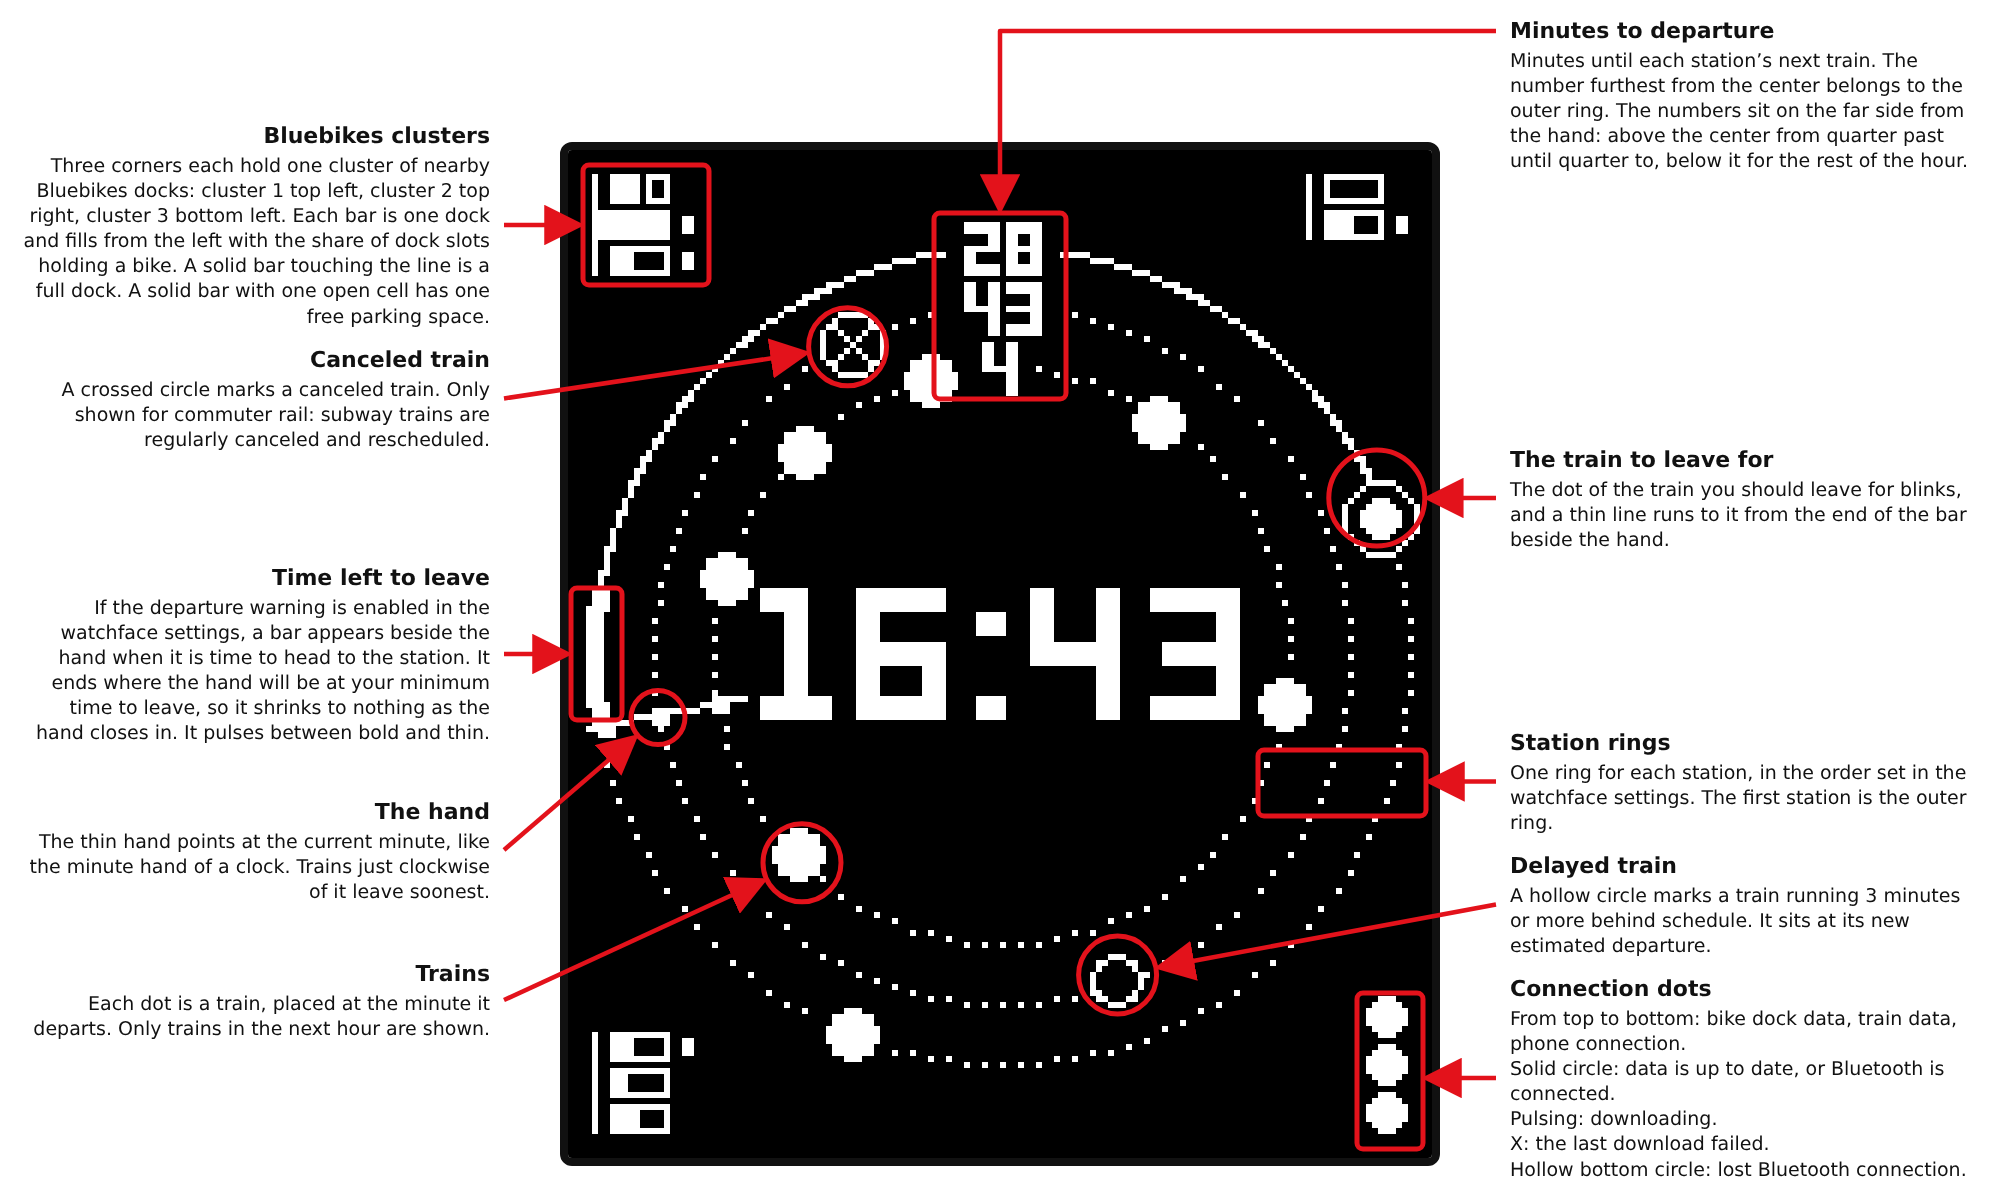
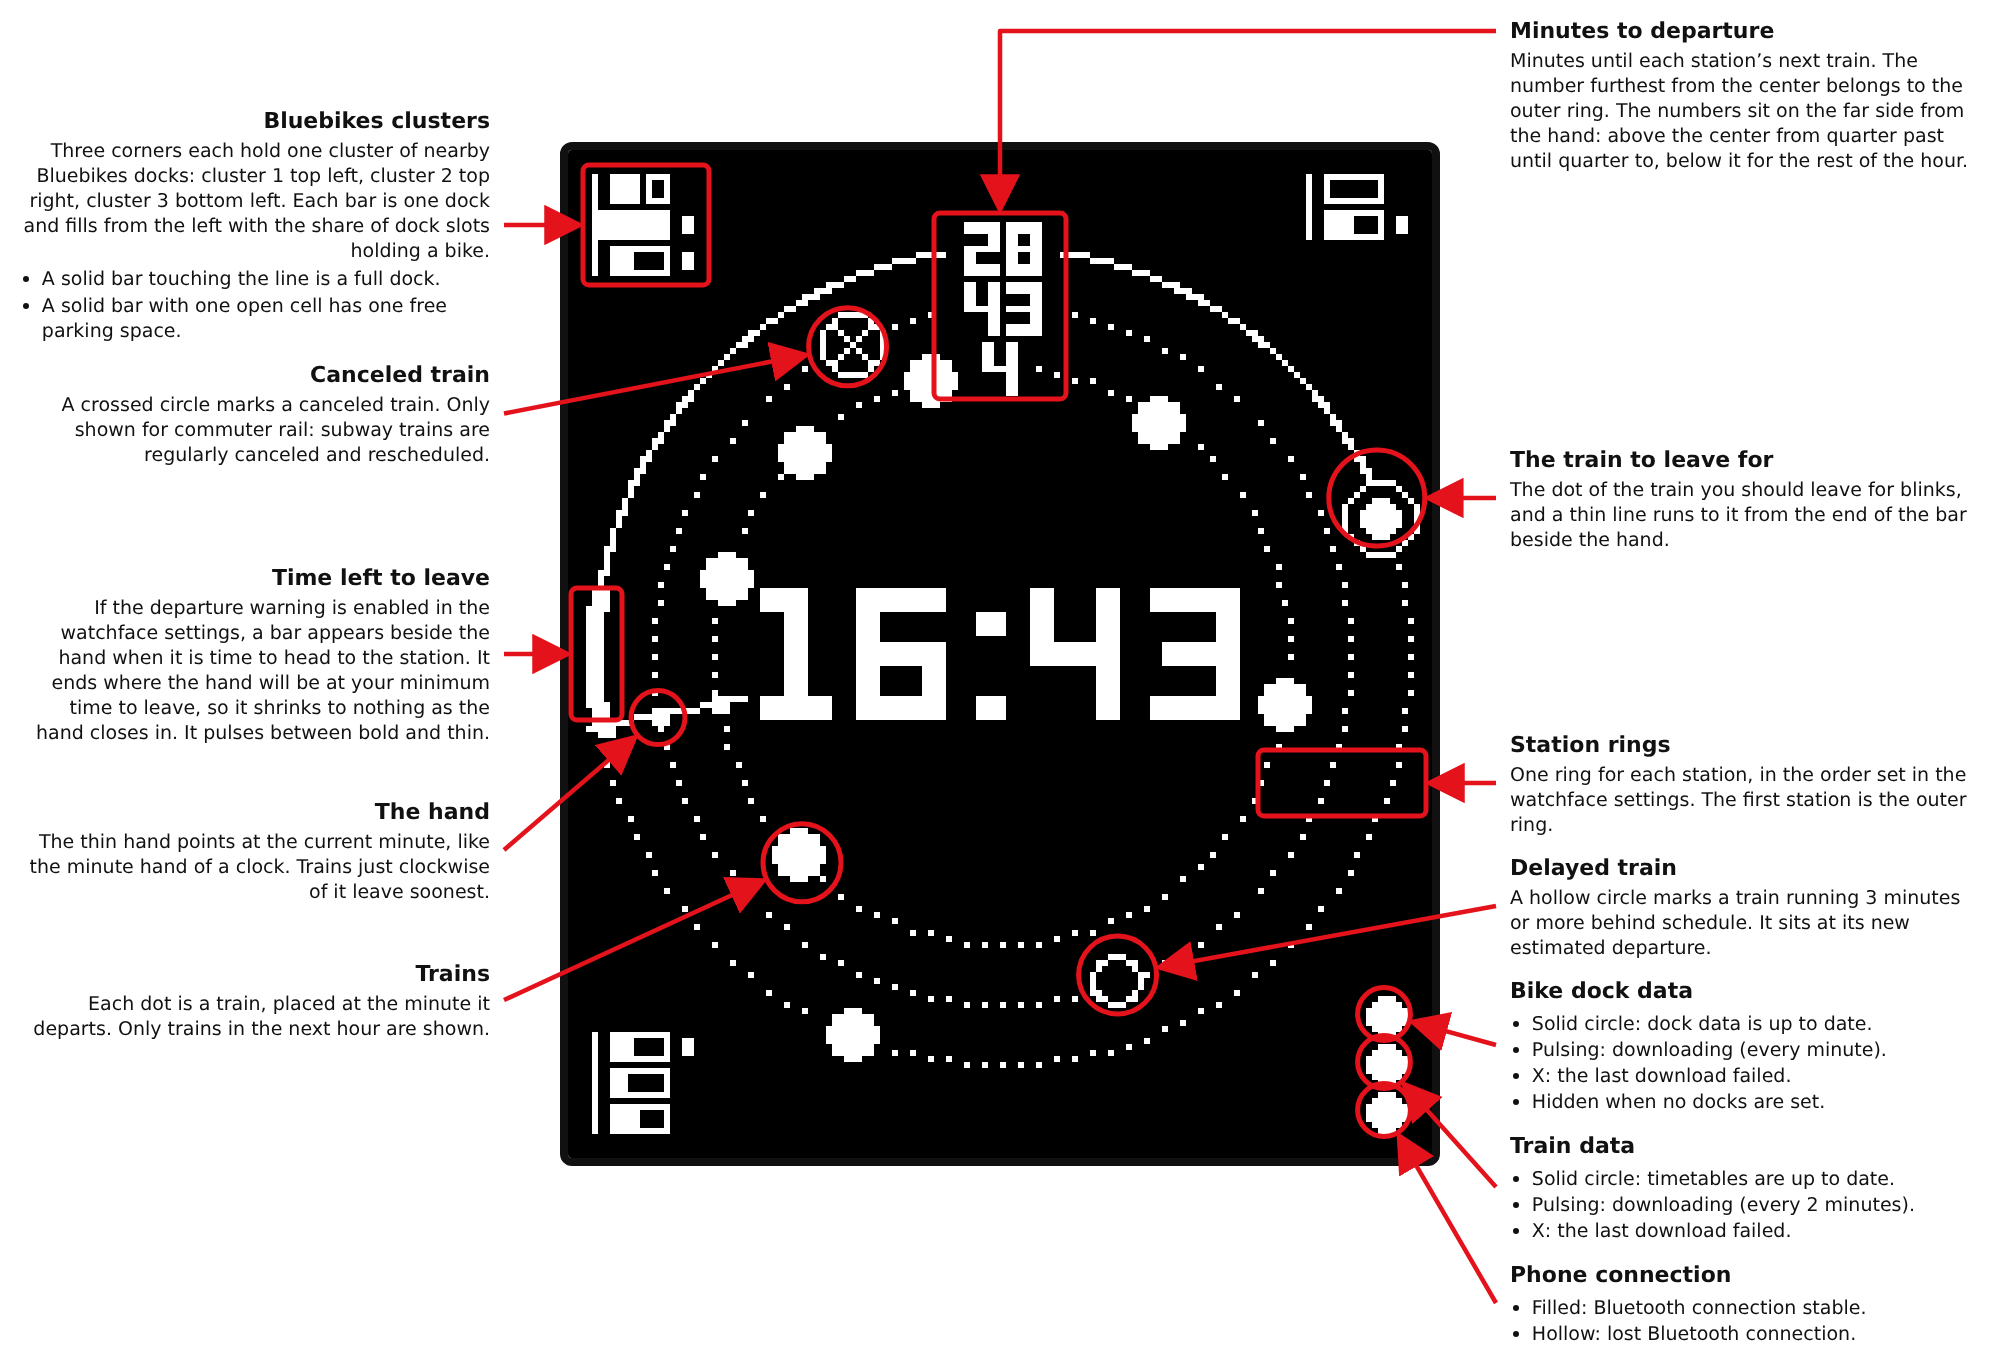
Guides: a callout per connection dot, bulleted lists, and a narrow numbered version for phones
Claude-Session: https://claude.ai/code/session_018kUttcRWv8pxFU9anVHVt8

Changed region(s): [[0.0, 0.0, 0.992, 0.9883], [0.465, 0.7721, 0.496, 0.803]]

diff --git a/docs/watch-guide.html b/docs/watch-guide.html
@@ -1,18 +1,26 @@
 <!doctype html><meta charset="utf-8">
-<!-- Source for the annotated guides. Open with #line (the default), #board
-     or #dial and render #c with a headless browser at 2000px wide:
+<!-- Source for the annotated guides. The hash picks the guide: #line (the
+     default), #board or #dial. Render #c with a headless browser.
        #line  -> watch-guide.png   (screen: watch-screen.png)
        #board -> guide-board.png   (screen: screen-guide-board.png)
        #dial  -> guide-dial.png    (screen: screen-guide-dial.png)
+     Add -l or -r for the narrow layout's two halves, e.g. #board-l ->
+     guide-board-mobile-1.png and #board-r -> guide-board-mobile-2.png.
      Each screen is a 144x168 capture of the watch showing demo data. -->
 <style>
 body{margin:0;background:#fff;font-family:"DejaVu Sans","Liberation Sans",sans-serif;color:#111}
 #c{position:relative;width:2000px;background:#fff}
 #w{position:absolute;image-rendering:pixelated;border:8px solid #111;border-radius:12px;margin:-8px}
 svg{position:absolute;left:0;top:0}
-.t{position:absolute;width:470px;font-size:19px;line-height:1.32}
+.t{position:absolute;font-size:19px;line-height:1.32}
 .t b{display:block;font-size:22px;margin-bottom:3px}
-.l{left:20px;text-align:right}.r{left:1510px}
+.t ul{display:inline-block;margin:2px 0 0;padding-left:1.15em;text-align:left}
+.t li{margin:1px 0}
+.l{text-align:right}
+.m .e{display:flex;gap:16px;margin:0 0 22px;font-size:25px;line-height:1.34}
+.m .e b{display:block;font-size:28px;margin-bottom:2px}
+.m .n{flex:none;width:38px;height:38px;border-radius:50%;background:#e3121b;color:#fff;font-weight:bold;font-size:23px;line-height:38px;text-align:center;margin-top:1px}
+.m ul{margin:2px 0 0;padding-left:1.15em}.m li{margin:2px 0}
 </style>
 <div id="c"><img id="w" src="watch-screen.png"><svg id="s" width="2000"></svg></div>
 <script>
@@ -21,36 +29,42 @@ function px(x){return X0+x*K} function py(y){return Y0+y*K}
 // Targets are in watch pixels: box [x1,y1,x2,y2] or circ [cx,cy,r].
 // top: the arrow runs across the top margin and drops onto the target.
 // at: [x,y] watch pixel the arrow should end at instead of the nearest edge.
+// Lines of a body that start with "- " are drawn as a bulleted list.
+var BIKE_DATA='- Solid circle: dock data is up to date.<br>- Pulsing: downloading (every minute).<br>- X: the last download failed.<br>- Hidden when no docks are set.';
+var TRAIN_DATA='- Solid circle: timetables are up to date.<br>- Pulsing: downloading (every 2 minutes).<br>- X: the last download failed.';
+var PHONE='- Filled: Bluetooth connection stable.<br>- Hollow: lost Bluetooth connection.';
 var GUIDES={
 line:{img:'watch-screen.png',y0:224,items:[
  {side:'l',top:1,title:'Bluebikes docks',body:'Each circle is a pie chart for one Bluebikes dock, chosen in the watchface settings. The solid slice is the share of dock slots holding a bike. Orbiting dots are available e-bikes, one dot each.',box:[26.5,-1.5,78,11]},
- {side:'l',title:'Bike dock nearly full',body:'A hollow square means almost full: one free parking space.<br>A solid square means completely full: no free parking space.',box:[1,-1.5,25.5,11],ty:259},
+ {side:'l',title:'Bike dock nearly full',body:'- A hollow square means almost full: one free parking space.<br>- A solid square means completely full: no free parking space.',box:[1,-1.5,25.5,11],ty:259},
  {side:'l',title:'Train timetable header',body:'Station &gt; direction. The line, station and direction are configured in the watchface settings. This example shows commuter rail rows, which display departure times as HH:MM. The watch here is set to a 24-hour clock (military time).',box:[1,45.5,106,58.5]},
  {side:'l',title:'Blinking departure warning',body:'If enabled in the watchface settings, a train time blinks when it is time to head to the station. The blink starts slow at your maximum time to leave, speeds up until your minimum time to leave, then stops.',box:[0.5,60.5,47.5,85.5]},
  {side:'l',title:'Service alert',body:'An “!” means an alert is posted for this line. If alerts are enabled for the row, the alert text scrolls across the header every minute.',circ:[4,92.5,5.5]},
  {side:'l',title:'Canceled train',body:'An X marks a canceled train. Only shown for commuter rail: subway trains are regularly canceled and rescheduled.',box:[0.5,101.5,48,126]},
  {side:'l',title:'Subway timetables',body:'Subway trains depart frequently, so they are shown as minutes to departure.',box:[11.5,145,35,164.5]},
- {side:'r',top:1,title:'Bike dock data',body:'Solid circle: dock data is up to date.<br>Pulsing: downloading (every minute).<br>X: the last download failed.<br>Hidden when no docks are set.',circ:[115.5,6,5]},
- {side:'r',top:2,title:'Train data',body:'Solid circle: timetables are up to date.<br>Pulsing: downloading (every 2 minutes).<br>X: the last download failed.',circ:[126.5,6,5]},
- {side:'r',title:'Phone connection',body:'Filled: Bluetooth connection stable.<br>Hollow: lost Bluetooth connection.',circ:[137.5,6,5],ty:360},
+ {side:'r',top:1,title:'Bike dock data',body:BIKE_DATA,circ:[115.5,6,5]},
+ {side:'r',top:2,title:'Train data',body:TRAIN_DATA,circ:[126.5,6,5]},
+ {side:'r',title:'Phone connection',body:PHONE,circ:[137.5,6,5],ty:360},
  {side:'r',title:'Departure countdown',body:'Minutes until the next train departs.',box:[117,45.5,143,58.5]},
  {side:'r',title:'Delayed trains',body:'If a train is marked delayed (3 minutes or more behind schedule), the background is hatched. The time shown is the new estimated departure.',box:[96.5,60.5,143.5,85.5]},
  {side:'r',title:'End of service',body:'Shows when no more trains are scheduled for the rest of the service day. The MBTA’s service day runs until about 3 am.',box:[52,104,143.5,123]},
- {side:'r',title:'Subway destination letter',body:'Shown where a line splits.<br>Red Line southbound: A = Ashmont, B = Braintree.<br>Green Line: B = Boston College, C = Cleveland Circle, D = Riverside, E = Heath Street.<br>Other lines have no letter.',circ:[131,155.5,6.5]}
+ {side:'r',title:'Subway destination letter',body:'Shown where a line splits.<br>- Red Line southbound: A = Ashmont, B = Braintree.<br>- Green Line: B = Boston College, C = Cleveland Circle, D = Riverside, E = Heath Street.<br>- Other lines have no letter.',circ:[131,155.5,6.5]}
 ]},
 board:{img:'screen-guide-board.png',y0:250,items:[
  {side:'l',top:1,title:'Bluebikes clusters',body:'Each stack is a cluster of nearby Bluebikes docks, chosen in the watchface settings, and each bar is one dock. A bar fills from the left with the share of dock slots holding a bike. A dot to the right of a bar means e-bikes are available.',box:[94.5,1,133.5,22]},
- {side:'l',top:2,title:'Bike dock nearly full',body:'A solid bar with one open cell at its end means almost full: one free parking space.<br>A solid bar that touches the cluster’s line means completely full: no free parking space.',box:[73.5,1,93.5,22]},
+ {side:'l',top:2,title:'Bike dock nearly full',body:'- A solid bar with one open cell at its end means almost full: one free parking space.<br>- A solid bar that touches the cluster’s line means completely full: no free parking space.',box:[73.5,1,93.5,22]},
  {side:'l',title:'Departure time',body:'Every train from your three stations is in one list, soonest first, up to six trains. This is when each one leaves. The watch here is set to a 24-hour clock (military time).',box:[0.5,37,38,56.5],ty:520},
  {side:'l',title:'Canceled train',body:'A line through the train, and CANC in place of the minutes. Only shown for commuter rail: subway trains are regularly canceled and rescheduled.',box:[0.5,58.5,143.5,79.5]},
  {side:'l',title:'Blinking departure warning',body:'If enabled in the watchface settings, a train’s whole line blinks when it is time to head to the station. The blink starts slow at your maximum time to leave, speeds up until your minimum time to leave, then stops.',box:[0.5,146.5,143.5,167.5]},
- {side:'r',title:'Connection dots',body:'From top to bottom: bike dock data, train data, phone connection.<br>Solid circle: data is up to date, or Bluetooth is connected.<br>Pulsing: downloading.<br>X: the last download failed.<br>Hollow bottom circle: lost Bluetooth connection.',box:[134.5,-0.5,143.8,24.5],ty:300},
- {side:'r',title:'Minutes to departure',body:'Minutes until the train departs.',box:[122,37,143.5,56.5],ty:520},
+ {side:'r',title:'Bike dock data',body:BIKE_DATA,circ:[139,4,4.4],ty:150},
+ {side:'r',title:'Train data',body:TRAIN_DATA,circ:[139,12,4.4],ty:305},
+ {side:'r',title:'Phone connection',body:PHONE,circ:[139,20,4.4],ty:440},
+ {side:'r',title:'Minutes to departure',body:'Minutes until the train departs.',box:[122,37,143.5,56.5],ty:545},
  {side:'r',title:'Destination',body:'Where the train is going. Long names are shortened to fit: S Station is South Station.<br>An “!” before the destination means an alert is posted for that train’s line, if alerts are enabled for its station. Alert text does not scroll in this layout.',box:[44.5,81,119,100.5]},
  {side:'r',title:'Delayed train',body:'If a train is marked delayed (3 minutes or more behind schedule), its line is hatched. The time shown is the new estimated departure.',box:[0.5,102.5,143.5,123.5],ty:940}
 ]},
 dial:{img:'screen-guide-dial.png',y0:150,items:[
- {side:'l',title:'Bluebikes clusters',body:'Three corners each hold one cluster of nearby Bluebikes docks: cluster 1 top left, cluster 2 top right, cluster 3 bottom left. Each bar is one dock and fills from the left with the share of dock slots holding a bike. A solid bar touching the line is a full dock. A solid bar with one open cell has one free parking space.',box:[2.5,2.5,23.5,22.5]},
+ {side:'l',title:'Bluebikes clusters',body:'Three corners each hold one cluster of nearby Bluebikes docks: cluster 1 top left, cluster 2 top right, cluster 3 bottom left. Each bar is one dock and fills from the left with the share of dock slots holding a bike.<br>- A solid bar touching the line is a full dock.<br>- A solid bar with one open cell has one free parking space.',box:[2.5,2.5,23.5,22.5]},
  {side:'l',title:'Canceled train',body:'A crossed circle marks a canceled train. Only shown for commuter rail: subway trains are regularly canceled and rescheduled.',circ:[46.6,32.8,6.5]},
  {side:'l',title:'Time left to leave',body:'If the departure warning is enabled in the watchface settings, a bar appears beside the hand when it is time to head to the station. It ends where the hand will be at your minimum time to leave, so it shrinks to nothing as the hand closes in. It pulses between bold and thin.',box:[0.5,73,9,95]},
  {side:'l',title:'The hand',body:'The thin hand points at the current minute, like the minute hand of a clock. Trains just clockwise of it leave soonest.',circ:[15,94.6,4.5],ty:850},
@@ -58,20 +72,45 @@ dial:{img:'screen-guide-dial.png',y0:150,items:[
  {side:'r',top:1,title:'Minutes to departure',body:'Minutes until each station’s next train. The number furthest from the center belongs to the outer ring. The numbers sit on the far side from the hand: above the center from quarter past until quarter to, below it for the rest of the hour.',box:[61,10.5,83,41.5]},
  {side:'r',title:'The train to leave for',body:'The dot of the train you should leave for blinks, and a thin line runs to it from the end of the bar beside the hand.',circ:[134.8,58,8]},
  {side:'r',title:'Station rings',body:'One ring for each station, in the order set in the watchface settings. The first station is the outer ring.',box:[115,100,143,111]},
- {side:'r',title:'Delayed train',body:'A hollow circle marks a train running 3 minutes or more behind schedule. It sits at its new estimated departure.',circ:[91.6,137.5,6.5],ty:960},
- {side:'r',title:'Connection dots',body:'From top to bottom: bike dock data, train data, phone connection.<br>Solid circle: data is up to date, or Bluetooth is connected.<br>Pulsing: downloading.<br>X: the last download failed.<br>Hollow bottom circle: lost Bluetooth connection.',box:[131.5,140.5,142.5,166.5],ty:1130}
+ {side:'r',title:'Delayed train',body:'A hollow circle marks a train running 3 minutes or more behind schedule. It sits at its new estimated departure.',circ:[91.6,137.5,6.5],ty:790},
+ {side:'r',title:'Bike dock data',body:BIKE_DATA,circ:[136,144,4.4],ty:925},
+ {side:'r',title:'Train data',body:TRAIN_DATA,circ:[136,152,4.4],ty:1062},
+ {side:'r',title:'Phone connection',body:PHONE,circ:[136,160,4.4],ty:1165}
 ]}
 };
-var guide=GUIDES[location.hash.slice(1)]||GUIDES.line,items=guide.items;
-Y0=guide.y0;document.getElementById('w').src=guide.img;
-var R='#e3121b',c=document.getElementById('c'),w=document.getElementById('w');
+// The hash picks the guide and the layout: "board" is the full guide with
+// callouts on both sides. "board-l" and "board-r" are the two halves of the
+// narrow layout for small screens: the watch with numbered markers for one
+// side's callouts, and the callouts as a numbered list underneath.
+var parts=location.hash.slice(1).split('-'),guide=GUIDES[parts[0]]||GUIDES.line,half=parts[1]||'';
+var items=guide.items.filter(function(i){return !half||i.side===half});
+var c=document.getElementById('c'),w=document.getElementById('w'),R='#e3121b';
+var W=2000,TW=470,TL=20,TR=1510;
+c.style.width=W+'px';w.src=guide.img;
+if(half){narrow();}else{wide();}
+
+function bodyHtml(text){
+  var out='',open=false;
+  text.split('<br>').forEach(function(line,i){
+    var li=line.indexOf('- ')===0;
+    if(li&&!open){out+='<ul>';open=true;}
+    if(!li&&open){out+='</ul>';open=false;}
+    out+=li?'<li>'+line.slice(2)+'</li>':(i&&!out.match(/<\/ul>$/)?'<br>':'')+line;
+  });
+  return out+(open?'</ul>':'');
+}
+function wide(){
+items.forEach(function(it){
+  it.el=document.createElement('div');it.el.className='t '+it.side;
+  it.el.style.width=TW+'px';it.el.style.left=(it.side==='l'?TL:TR)+'px';
+  it.el.innerHTML='<b>'+it.title+'</b>'+bodyHtml(it.body);c.appendChild(it.el);
+  it.h=it.el.offsetHeight;
+});
+Y0=guide.y0;
 w.style.left=X0+'px';w.style.top=Y0+'px';w.style.width=144*K+'px';w.style.height=168*K+'px';
 items.forEach(function(it){
   if(it.box) it.b={x1:px(it.box[0]),y1:py(it.box[1]),x2:px(it.box[2]),y2:py(it.box[3])};
   else{var r=it.circ[2]*K;it.b={x1:px(it.circ[0])-r,y1:py(it.circ[1])-r,x2:px(it.circ[0])+r,y2:py(it.circ[1])+r,c:1};}
-  it.el=document.createElement('div');it.el.className='t '+it.side;
-  it.el.innerHTML='<b>'+it.title+'</b>'+it.body;c.appendChild(it.el);
-  it.h=it.el.offsetHeight;
   it.want=it.top?it.top:(it.ty||(it.b.y1+it.b.y2)/2);
 });
 var H=Y0+168*K+40;
@@ -81,6 +120,8 @@ var H=Y0+168*K+40;
     it.y=Math.max(it.want,it.h/2+16);
     if(i>0){var p=col[i-1],min=p.y+p.h/2+GAP+it.h/2;if(it.y<min)it.y=min;}
   });
+  // A column taller than the watch makes the picture taller instead of overlapping.
+  if(col.length){var last=col[col.length-1];H=Math.max(H,last.y+last.h/2+16);}
   for(var i=col.length-1;i>=0;i--){
     var max=i===col.length-1?H-16-col[i].h/2:col[i+1].y-col[i+1].h/2-GAP-col[i].h/2;
     if(col[i].y>max)col[i].y=max;
@@ -102,5 +143,36 @@ items.forEach(function(it){
   }
   svg+='<path d="'+d+'" fill="none" stroke="'+R+'" stroke-width="4.5" stroke-linejoin="round" marker-end="url(#a)"/>';
 });
-c.style.height=H+'px';var s=document.getElementById('s');s.setAttribute('height',H);s.innerHTML=svg;
+c.style.height=H+'px';var sv=document.getElementById('s');sv.setAttribute('width',W);sv.setAttribute('height',H);sv.innerHTML=svg;
+}
+
+function narrow(){
+  K=5;X0=40;Y0=34;W=144*K+2*X0;
+  c.className='m';c.style.width=W+'px';
+  w.style.left=X0+'px';w.style.top=Y0+'px';w.style.width=144*K+'px';w.style.height=168*K+'px';
+  items.forEach(function(it){
+    if(it.box) it.b={x1:px(it.box[0]),y1:py(it.box[1]),x2:px(it.box[2]),y2:py(it.box[3])};
+    else{var r=it.circ[2]*K;it.b={x1:px(it.circ[0])-r,y1:py(it.circ[1])-r,x2:px(it.circ[0])+r,y2:py(it.circ[1])+r,c:1};}
+  });
+  // Numbered down the watch, top to bottom.
+  items.sort(function(a,b){return (a.b.y1+a.b.y2)-(b.b.y1+b.b.y2)||a.b.x1-b.b.x1});
+  var BR=17,svg='',list='<div class="list" style="padding:'+(Y0+168*K+38)+'px '+X0+'px 12px">';
+  items.forEach(function(it,i){
+    var b=it.b,cx=(b.x1+b.x2)/2,cy=(b.y1+b.y2)/2,r=(b.x2-b.x1)/2,bx,by;
+    if(b.c) svg+='<circle cx="'+cx+'" cy="'+cy+'" r="'+r+'" fill="none" stroke="'+R+'" stroke-width="5"/>';
+    else svg+='<rect x="'+b.x1+'" y="'+b.y1+'" width="'+(b.x2-b.x1)+'" height="'+(b.y2-b.y1)+'" rx="6" fill="none" stroke="'+R+'" stroke-width="5"/>';
+    // The marker sits on the shape's top left corner, or beside a small circle.
+    if(it.badge){bx=px(it.badge[0]);by=py(it.badge[1]);}
+    else if(b.c&&r<30){bx=cx-r-BR-2;by=cy;}
+    else if(b.c){bx=cx-r*0.72;by=cy-r*0.72;}
+    else{bx=b.x1;by=b.y1;}
+    bx=Math.max(BR+2,Math.min(W-BR-2,bx));by=Math.max(BR+2,by);
+    svg+='<circle cx="'+bx+'" cy="'+by+'" r="'+BR+'" fill="'+R+'" stroke="#fff" stroke-width="2.5"/>'+
+         '<text x="'+bx+'" y="'+(by+7.5)+'" text-anchor="middle" font-size="22" font-weight="bold" fill="#fff">'+(i+1)+'</text>';
+    list+='<div class="e"><span class="n">'+(i+1)+'</span><div><b>'+it.title+'</b>'+bodyHtml(it.body)+'</div></div>';
+  });
+  c.insertAdjacentHTML('beforeend',list+'</div>');
+  var H=c.scrollHeight,sv=document.getElementById('s');
+  sv.setAttribute('width',W);sv.setAttribute('height',Y0+168*K+30);sv.innerHTML=svg;
+}
 </script>

diff --git a/README.md b/README.md
@@ -13,6 +13,14 @@ Pebble app.
 
 ![Annotated guide to the watch screen](docs/watch-guide.png)
 
+<details>
+<summary>Reading on a phone? Open the narrow version of this guide.</summary>
+
+![Line by line guide, part 1](docs/watch-guide-mobile-1.png)
+![Line by line guide, part 2](docs/watch-guide-mobile-2.png)
+
+</details>
+
 The screen above uses demo data and example stations so that every marker
 appears at once.
 
@@ -51,9 +59,25 @@ The watchface settings offer three layouts.
 
 ![Annotated guide to the departure board layout](docs/guide-board.png)
 
+<details>
+<summary>Narrow version for phones.</summary>
+
+![Departure board guide, part 1](docs/guide-board-mobile-1.png)
+![Departure board guide, part 2](docs/guide-board-mobile-2.png)
+
+</details>
+
 #### Hour dial
 
 ![Annotated guide to the hour dial layout](docs/guide-dial.png)
+
+<details>
+<summary>Narrow version for phones.</summary>
+
+![Hour dial guide, part 1](docs/guide-dial-mobile-1.png)
+![Hour dial guide, part 2](docs/guide-dial-mobile-2.png)
+
+</details>
 
 Both screens use demo data so that every marker appears at once.
 
